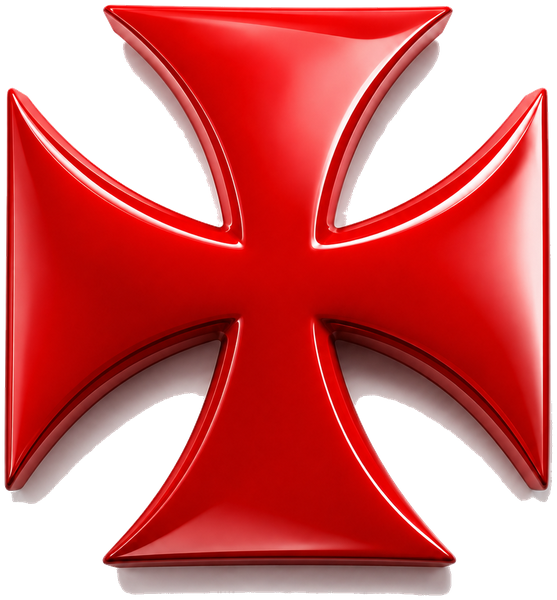
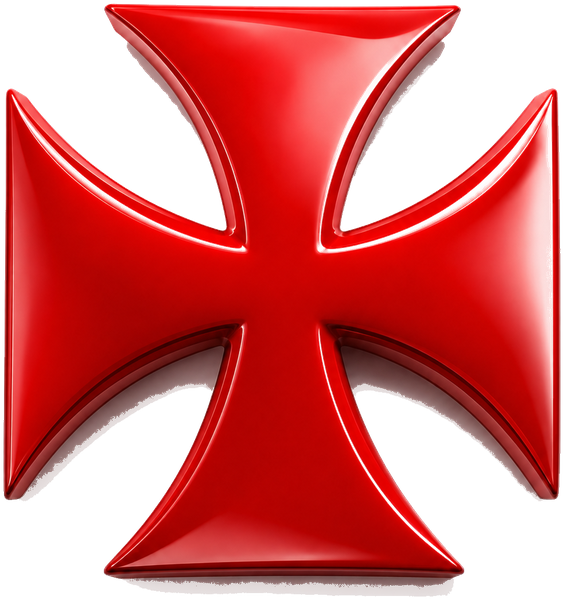
Corrige bug real do botão Sair: a função tentava mexer num elemento (fqFixo) que não existe mais desde que o widget flutuante do quiz foi removido — isso quebrava a função no meio, antes dela voltar pra tela de login. Por isso só funcionava depois de atualizar a página
Nova tela de entrada depois do login: fundo com a fachada de São Januário (semi-transparente, com uma camada escura por cima pra legibilidade), 'VASBOBO' escrito grande no topo, a cruz de malta fazendo a animação de batimento no meio, e o vídeo de gol (sem as bordas pretas — recortei e recodifiquei) tocando embaixo. Tudo esconde suavemente quando a cruz vai se transformar no botão do menu

Retoque na cruz: removi o halo/sombra clara que ainda sobrava ao redor dela (fundo removido de forma bem mais agressiva dessa vez, confirmei visualmente sobre fundo escuro)

Changed region(s): [[0.0, 0.0, 1.0, 1.0]]

diff --git a/index.html b/index.html
@@ -844,7 +844,13 @@ console.log('Firebase conectado ao Vasbobo ✓');
       </div>
     </div>
   </header>
-  <div id="cruzEntradaOverlay" style="position:fixed;inset:0;z-index:2000;display:none;align-items:center;justify-content:center;background:none;pointer-events:none">
+  <div id="cruzEntradaOverlay" style="position:fixed;inset:0;z-index:2000;display:none;align-items:center;justify-content:center;background:#0B0D10;pointer-events:none;overflow:hidden">
+    <img src="img/embed/fachada-saojanuario.jpg" alt="" style="position:absolute;inset:0;width:100%;height:100%;object-fit:cover;opacity:.32">
+    <div style="position:absolute;inset:0;background:rgba(11,13,16,.35)"></div>
+    <div id="cruzEntradaTitulo" style="position:absolute;top:9%;left:0;right:0;text-align:center;opacity:0;transition:opacity .5s ease">
+      <span style="font-family:'Anton',sans-serif;font-size:min(15vw,74px);color:#fff;letter-spacing:.03em;text-shadow:0 4px 18px rgba(0,0,0,.6)">VASBOBO</span>
+    </div>
+    <video id="cruzEntradaVideo" src="img/embed/entrada-video.mp4" muted loop playsinline autoplay style="position:absolute;bottom:6%;left:50%;transform:translateX(-50%);width:min(84vw,420px);border-radius:14px;opacity:0;transition:opacity .6s ease;box-shadow:0 10px 40px rgba(0,0,0,.5)"></video>
     <img id="cruzEntradaClara" src="img/menu/cruz-entrada-3d.png" alt="" style="position:absolute;width:170px;height:auto;opacity:0">
     <img id="cruzEntradaFinal" src="img/menu/icone-menu-cruz4.png" alt="" style="position:absolute;width:170px;height:auto;opacity:0">
   </div>
@@ -3504,7 +3510,6 @@ async function sair(){
   try{localStorage.removeItem(CHAVE_SESSAO);}catch(e){}
   document.getElementById('loLogin').value='';document.getElementById('loSenha').value='';
   [timerTick,timerCrono,timerSync].forEach(t=>t&&clearInterval(t));
-  document.getElementById('fqFixo').classList.add('oculto');
   mostrar('login');
 }
 
@@ -3528,16 +3533,21 @@ function animarEntradaCruz(){
   const clara=document.getElementById('cruzEntradaClara');
   const final=document.getElementById('cruzEntradaFinal');
   const btnReal=document.getElementById('btnMenuSec');
+  const titulo=document.getElementById('cruzEntradaTitulo');
+  const video=document.getElementById('cruzEntradaVideo');
   if(!overlay||!clara||!final||!btnReal)return;
-  const tamanhoGrande=Math.min(window.innerWidth*0.72,340)+'px';
+  const tamanhoGrande=Math.min(window.innerWidth*0.62,300)+'px';
   overlay.style.display='flex';
   btnReal.style.visibility='hidden';
   clara.style.opacity='0';final.style.opacity='0';
-  clara.style.left='50%';clara.style.top='50%';clara.style.width=tamanhoGrande;clara.style.transform='translate(-50%,-50%) scale(1)';
+  clara.style.left='50%';clara.style.top='47%';clara.style.width=tamanhoGrande;clara.style.transform='translate(-50%,-50%) scale(1)';
   clara.style.transition='none';
+  if(video){video.currentTime=0;video.play().catch(()=>{});}
   requestAnimationFrame(()=>{
     clara.style.transition='opacity .3s ease';
     clara.style.opacity='1';
+    if(titulo)titulo.style.opacity='1';
+    if(video)video.style.opacity='1';
   });
   // batimento de coração de verdade (dois toques rápidos + pausa, repetindo) — ritmo mais
   // rápido, total de aproximadamente 3s pra animação inteira
@@ -3545,6 +3555,8 @@ function animarEntradaCruz(){
   setTimeout(()=>{clara.classList.remove('cruz-batendo');void clara.offsetWidth;clara.classList.add('cruz-batendo');},1150);
   // diminui + sobe até a altura/posição real do botão do menu, se transformando nele
   setTimeout(()=>{
+    if(titulo)titulo.style.opacity='0';
+    if(video)video.style.opacity='0';
     const alvo=btnReal.getBoundingClientRect();
     const imgAlvo=btnReal.querySelector('img');
     const larguraAlvo=imgAlvo?imgAlvo.getBoundingClientRect().width:46;
@@ -3565,6 +3577,7 @@ function animarEntradaCruz(){
   // termina: esconde a camada de animação, mostra o botão de verdade, batimento pequeno e abre o menu
   setTimeout(()=>{
     overlay.style.display='none';
+    if(video)video.pause();
     btnReal.style.visibility='visible';
     btnReal.classList.add('chamando-atencao');
     setTimeout(()=>{
